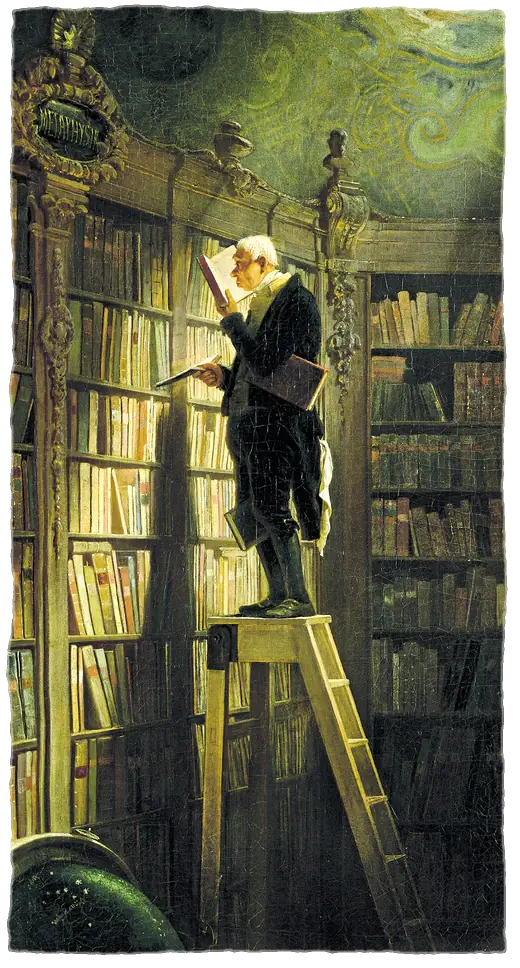
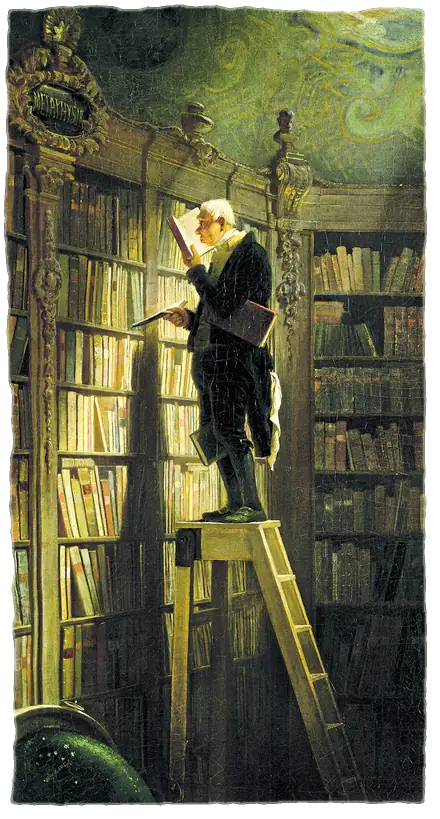
www: AA contrast for the pack list and the night pyramid tabs; slimmer home plates (home page 1.43 MB with every image) [skip ci]
Both contrast failures were already on main (the unselected pack list was dimmed with opacity;
the selected night pyramid tab was white on coral). Axe now reports nothing on any page in
either theme.

diff --git a/apps/www/src/styles/demos.css b/apps/www/src/styles/demos.css
@@ -350,6 +350,17 @@
   color: #fffaf2;
 }
 
+/* On the lapis night page the rubric is a light coral, which needs dark text to read. */
+:root[data-theme="night"] .pyramid-buttons button.is-on {
+  color: #1c0f0a;
+}
+
+@media (prefers-color-scheme: dark) {
+  :root:not([data-theme="day"]) .pyramid-buttons button.is-on {
+    color: #1c0f0a;
+  }
+}
+
 .pyramid-note {
   padding: 18px 20px;
   border: 1px solid var(--rule);
@@ -500,14 +511,17 @@
   padding: 12px 14px;
   border: 1px solid var(--rule);
   border-radius: var(--radius);
-  background: var(--papyrus-raised);
-  opacity: 0.72;
-  transition: opacity 240ms ease, border-color 240ms ease;
+  background: var(--papyrus-sunk);
+  transition: background 240ms ease, border-color 240ms ease;
 }
 
 .packs-list li.is-on {
-  opacity: 1;
+  background: var(--papyrus-raised);
   border-color: var(--rule-strong);
+}
+
+.packs-list .chip--code {
+  color: var(--rubric-deep);
 }
 
 .packs-list strong {

diff --git a/art/SOURCES.md b/art/SOURCES.md
@@ -109,13 +109,13 @@ Four assets are made by hand-written builders because they need hand-placed cuts
 
 | File | Work | Shape | Crop | Width | Shown on |
 | --- | --- | --- | --- | --- | --- |
-| `plate-scribes.webp` (88 KB) | `menna` | torn | 0.07, 0.04, 0.46, 0.49 | 1200 | Home |
-| `plate-palette.webp` (71 KB) | `palette` | cut | none | 1100 | Home |
-| `plate-weighing.webp` (123 KB) | `hunefer` | torn | 0.12, 0.23, 0.68, 0.98 | 960 | Home |
+| `plate-scribes.webp` (71 KB) | `menna` | torn | 0.07, 0.04, 0.46, 0.49 | 1200 | Home |
+| `plate-palette.webp` (61 KB) | `palette` | cut | none | 1100 | Home |
+| `plate-weighing.webp` (85 KB) | `hunefer` | torn | 0.12, 0.23, 0.68, 0.98 | 900 | Home |
 | `plate-dusk.webp` (47 KB) | `denis` | torn | 0.03, 0.04, 0.97, 0.95 | 960 | Home |
 | `plate-cliffs.webp` (46 KB) | `sargent` | torn | 0.02, 0.04, 0.98, 0.96 | 1000 | Home |
 | `plate-lamp.webp` (39 KB) | `lamp` | cut | none | 760 | Home |
-| `plate-scribe.webp` (89 KB) | `statue` | cut | none | 560 | Home |
+| `plate-scribe.webp` (64 KB) | `statue` | cut | none | 560 | Home |
 | `plate-ibis.webp` (66 KB) | `ibis` | torn | none |  | Home |
 | `plate-astrolabe.webp` (113 KB) | `astrolabe` | cut | none | 620 | `/how-it-works` |
 | `plate-ceiling.webp` (82 KB) | `ceiling` | band | 0.00, 0.00, 1.00, 0.36 | 1600 | `/features` |
@@ -139,8 +139,8 @@ Four assets are made by hand-written builders because they need hand-placed cuts
 | `plate-tuileries.webp` (60 KB) | `pissarro_tuileries` | torn | 0.03, 0.03, 0.97, 0.97 | 840 | `/download` |
 | `plate-road.webp` (81 KB) | `sisley_road` | torn | 0.03, 0.03, 0.97, 0.97 | 840 | `/roadmap` |
 | `plate-papyrus.webp` (74 KB) | `papyrus` | torn | 0.03, 0.02, 0.97, 0.98 | 620 | `/journal` |
-| `plate-bookworm.webp` (107 KB) | `spitzweg` | torn | 0.00, 0.00, 1.00, 1.00 | 520 | `/journal/ai-editor-not-writer` |
-| `plate-boulevard.webp` (109 KB) | `pissarro_boulevard` | torn | 0.03, 0.03, 0.97, 0.97 | 840 | `/journal/continuity-in-a-long-novel` |
+| `plate-bookworm.webp` (69 KB) | `spitzweg` | torn | 0.00, 0.00, 1.00, 1.00 | 440 | `/journal/ai-editor-not-writer` |
+| `plate-boulevard.webp` (86 KB) | `pissarro_boulevard` | torn | 0.03, 0.03, 0.97, 0.97 | 780 | `/journal/continuity-in-a-long-novel` |
 | `plate-sundial.webp` (59 KB) | `sundial` | cut | none | 640 | `/journal/story-time-and-reading-order` |
 | `plate-relief.webp` (113 KB) | `luke_relief` | cut | none | 520 | `/journal/do-you-need-a-story-bible` |
 | `plate-bedroom.webp` (93 KB) | `vangogh` | torn | 0.00, 0.00, 1.00, 1.00 | 840 | `/journal/local-first-writing` |
